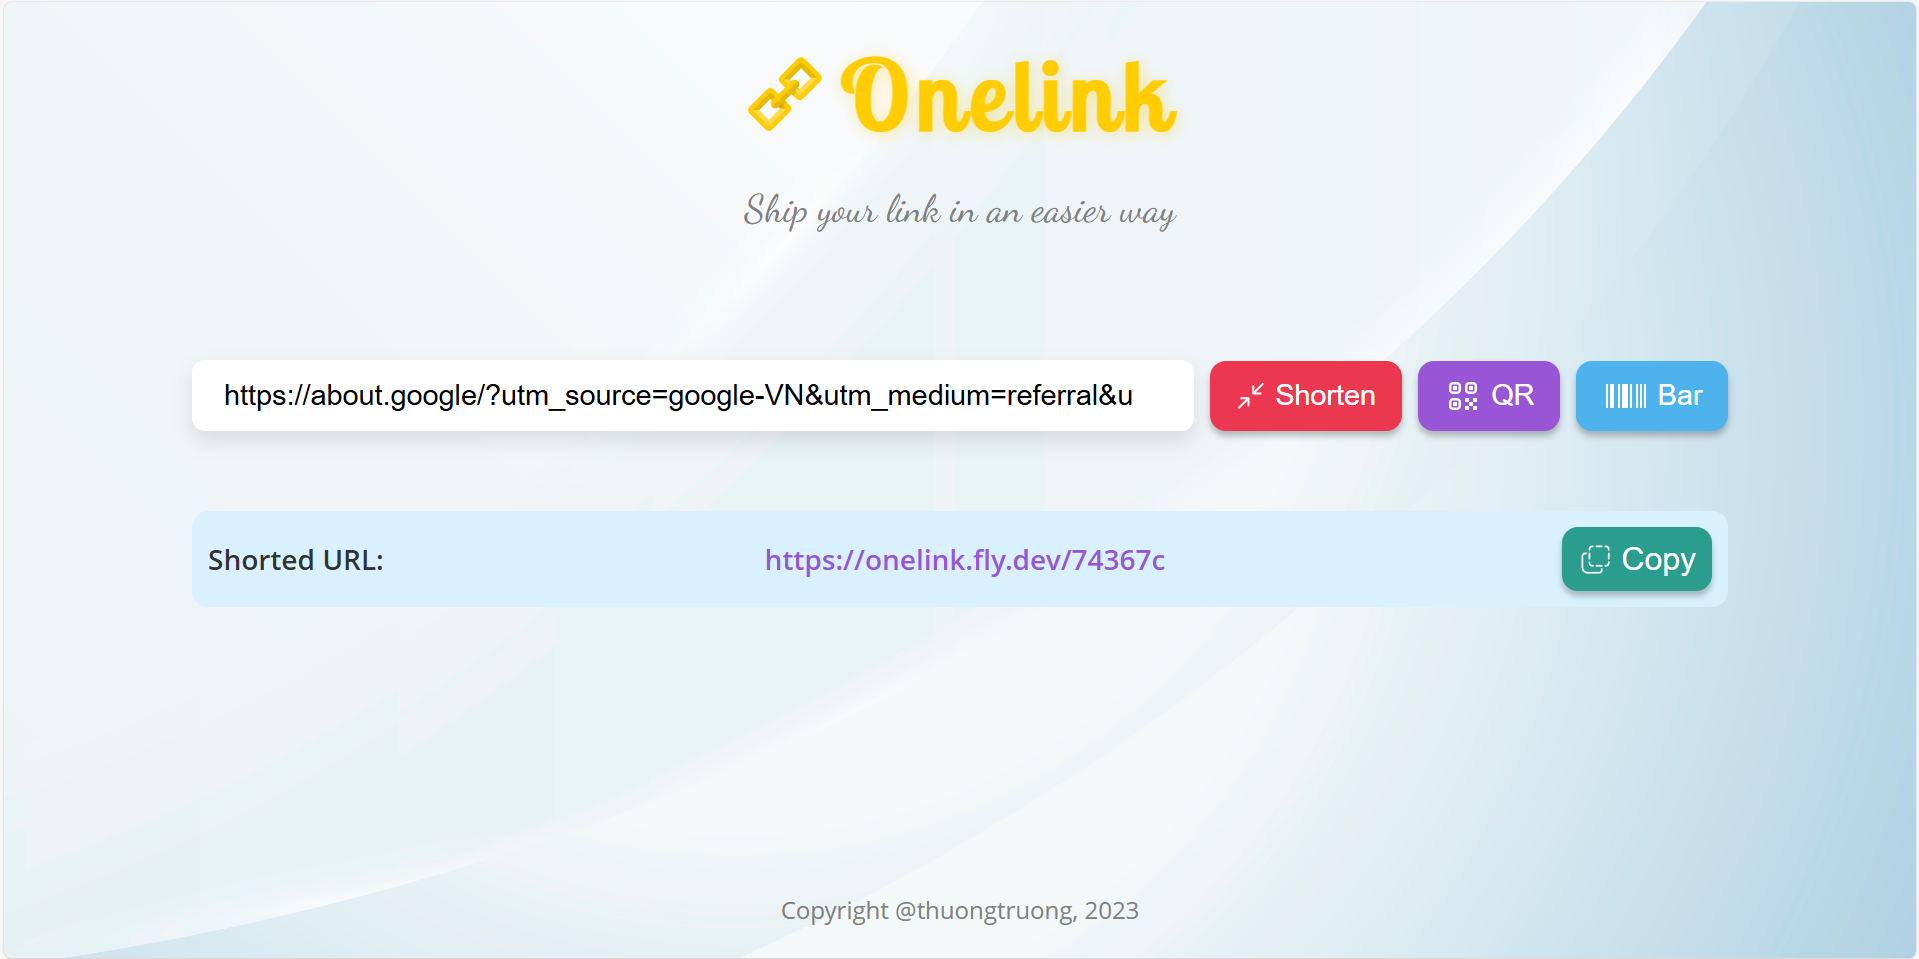
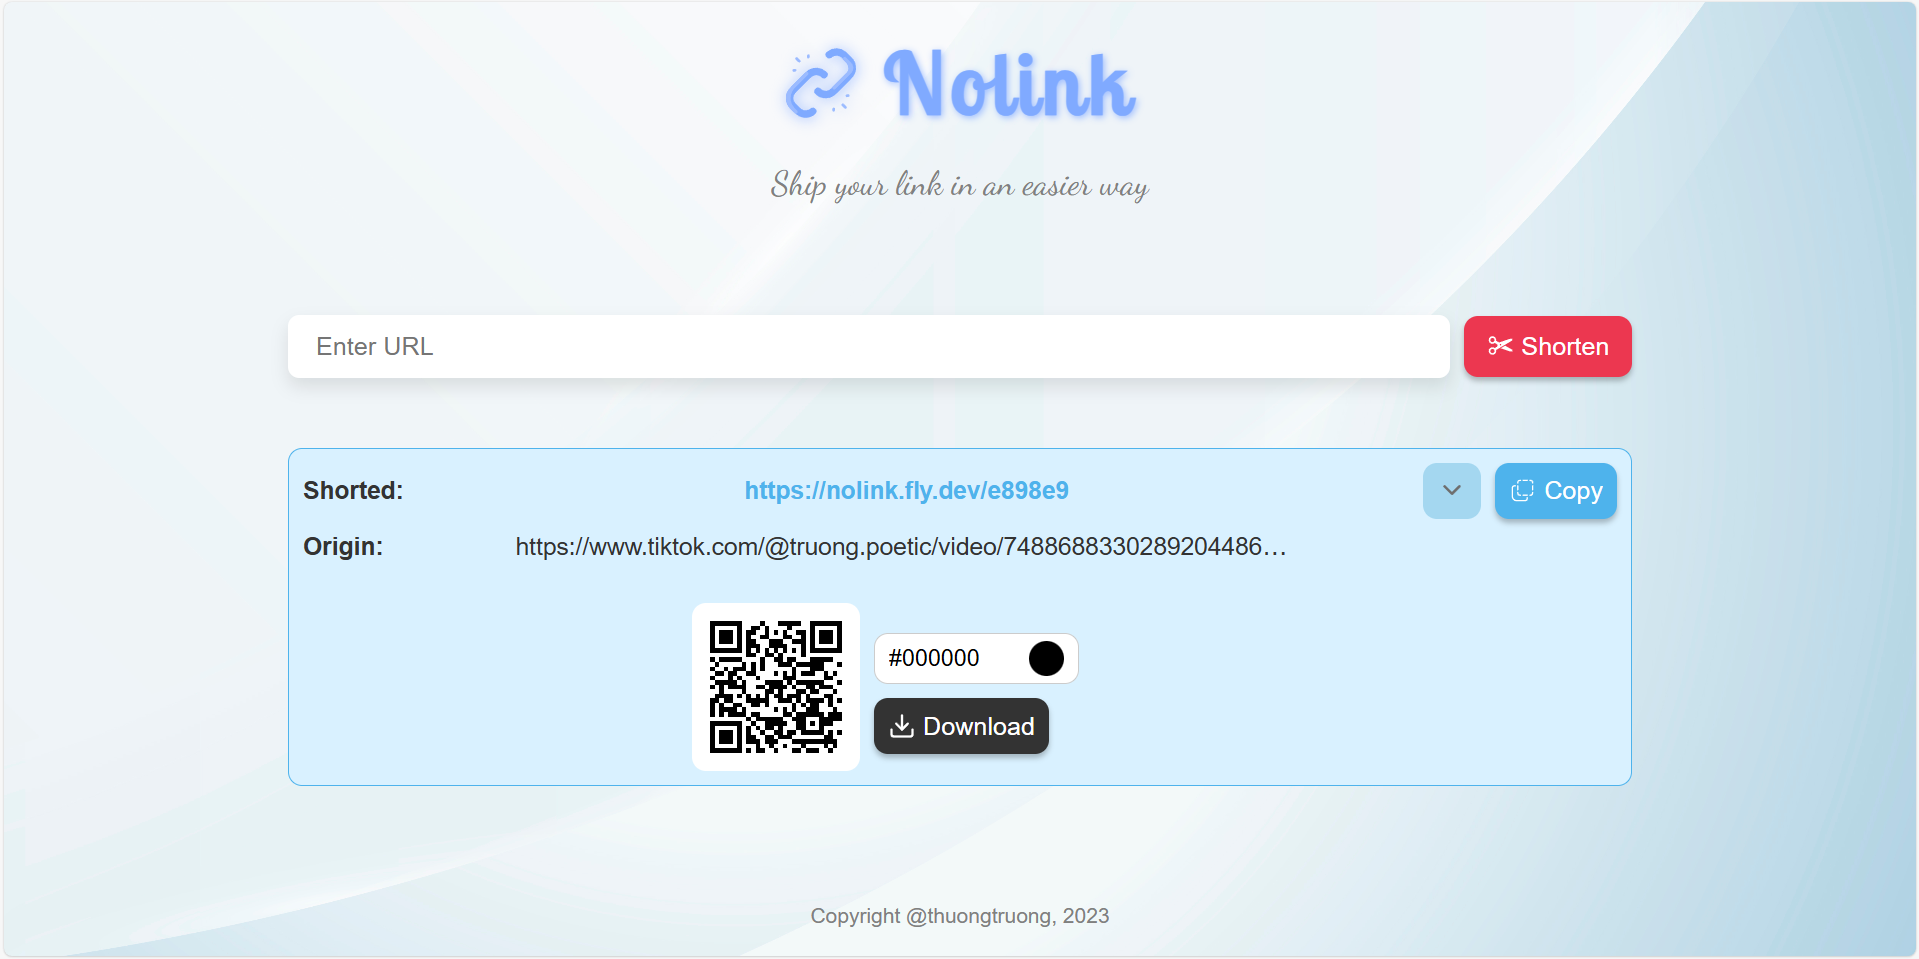
build: fix deploy connection

diff --git a/client/components/ShortedItem.vue b/client/components/ShortedItem.vue
@@ -3,19 +3,22 @@ import { computed, ref } from "vue";
 import Check from "./icons/Check.vue";
 import Copy from "./icons/Copy.vue";
 import Arrow from "./icons/Arrow.vue";
-import QRCode from "./QRCode.vue";
+import Code from "./Code.vue";
+import type { TShortedList } from "../types";
 
 const props = defineProps<{
-  url: string;
+  item: TShortedList;
   isActive: boolean;
 }>();
 
 // const config = useRuntimeConfig();
 // const currentUrl = ref<string>(
-//   computed(() => String(config.public.apiBase) + props.url) as unknown as string
+//   computed(() => String(config.public.apiBase) + props.short) as unknown as string
 // );
 
-const currentUrl = ref<string>(computed(() => props.url) as unknown as string);
+const currentUrl = ref<string>(
+  computed(() => props.item.short) as unknown as string
+);
 const isCopied = ref<boolean>(false);
 
 const onCopy = (text: string) => {
@@ -32,17 +35,17 @@ const isToggleMore = ref<boolean>(props.isActive);
 <template>
   <li :class="{ active: isToggleMore }">
     <h4>
-      <span>Shorted: {{ props.isActive }}</span>
+      <span>Shorted:</span>
       <span v-if="isToggleMore">Origin:</span>
     </h4>
     <div class="item-content">
       <div class="link">
-        <a :href="props.url" target="_blank">{{ props.url }}</a>
+        <a :href="props.item.short" target="_blank">{{ props.item.short }}</a>
         <a :href="currentUrl" target="_blank" v-if="isToggleMore">{{
-          currentUrl
+          props.item.origin
         }}</a>
       </div>
-      <div v-if="isToggleMore"><QRCode :text="url" /></div>
+      <div v-if="isToggleMore"><Code :text="props.item.short" /></div>
     </div>
     <div class="item-btn">
       <button
@@ -54,7 +57,7 @@ const isToggleMore = ref<boolean>(props.isActive);
         <Arrow />
       </button>
       <button
-        @click="onCopy(props.url)"
+        @click="onCopy(props.item.short)"
         class="copy-btn"
         :disabled="isCopied"
         type="button"
@@ -122,6 +125,7 @@ li {
     flex-direction: column;
     align-items: center;
     justify-content: center;
+    overflow: hidden;
 
     a {
       @include link($blue);
@@ -135,6 +139,14 @@ li {
       justify-content: center;
       width: 100%;
       text-align: center;
+      padding: 0 0.5rem;
+
+      a:nth-child(1) {
+        overflow: hidden;
+        text-overflow: ellipsis;
+        white-space: nowrap;
+        max-width: 100%;
+      }
 
       a:nth-child(2) {
         color: $black;
@@ -142,6 +154,7 @@ li {
         overflow: hidden;
         text-overflow: ellipsis;
         white-space: nowrap;
+        max-width: 80%;
       }
     }
   }

diff --git a/client/app.vue b/client/app.vue
@@ -6,6 +6,7 @@ import ShortedList from "./components/ShortedList.vue";
 import Cut from "./components/icons/Cut.vue";
 import { EBUTTON_OPTION } from "./enums/option";
 import { FetchMethod } from "./services";
+import type { TShortedList } from "./types";
 
 const config = useRuntimeConfig();
 
@@ -13,12 +14,14 @@ const url = ref<string>("");
 
 const toolOption = ref<string>(EBUTTON_OPTION.SHORTEN);
 
-const shortedUrl = ref<string[]>([]);
+const shortedList = ref<TShortedList[]>([]);
 
 const onClearInput = () => {
   url.value = "";
   toolOption.value = EBUTTON_OPTION.SHORTEN;
 };
+
+// https://nuxt.com/docs/api/composables/use-cookie#usecookie
 
 // onMounted(() => {
 //   getAllShorted();
@@ -39,7 +42,7 @@ const onClearInput = () => {
 //     }
 //   );
 
-//   shortedUrl.value = allData;
+//   shortedList.value = allData;
 // };
 
 const onShorten = async () => {
@@ -51,7 +54,13 @@ const onShorten = async () => {
     body: JSON.stringify({ url: url.value }),
   });
 
-  shortedUrl.value.unshift(shortenData.short);
+  shortedList.value.unshift({
+    short: shortenData.short,
+    origin: url.value,
+    createdAt: new Date().toLocaleString("en-US", {
+      timeZone: "UTC",
+    }),
+  });
   onClearInput();
 };
 </script>
@@ -83,7 +92,7 @@ const onShorten = async () => {
         </button>
       </div>
 
-      <ShortedList :shortedUrl="shortedUrl" />
+      <ShortedList :shortedList="shortedList" />
     </section>
 
     <Footer />

diff --git a/client/components/Code.vue b/client/components/Code.vue
@@ -3,7 +3,6 @@ import { ref, reactive, watch, onMounted } from "vue";
 import { saveAs } from "file-saver";
 import { toString } from "qrcode";
 import Download from "./icons/Download.vue";
-import JsBarcode from "jsbarcode";
 
 const props = defineProps<{
   text: string;
@@ -51,18 +50,6 @@ const generateBarcode = () => {
   if (!props.text) {
     return;
   }
-  JsBarcode("#barcode", "1234", {
-    lineColor: "#0aa",
-    height: 40,
-    displayValue: false,
-  });
-  // const canvas = document.createElement("canvas");
-  // JsBarcode(canvas, props.text, {
-  //   lineColor: "#0aa",
-  //   height: 40,
-  //   displayValue: false,
-  // });
-  // return canvas.toDataURL("image/png");
 };
 
 onMounted(() => {
@@ -87,10 +74,6 @@ onMounted(() => {
         <span>Download</span>
       </button>
     </div>
-
-    <div>
-      <img id="barcode" />
-    </div>
   </div>
 </template>
 
@@ -100,7 +83,6 @@ onMounted(() => {
   justify-content: center;
   align-items: center;
   width: 100%;
-  flex-wrap: wrap;
   padding-top: 1rem;
 
   .left_response {
@@ -152,11 +134,6 @@ onMounted(() => {
       @include button($black);
       width: fit-content;
     }
-  }
-
-  img {
-    border-radius: 0.5rem;
-    width: 10rem;
   }
 }
 </style>

diff --git a/client/nuxt.config.ts b/client/nuxt.config.ts
@@ -1,11 +1,10 @@
-import path from "path";
 import pkg from "./package.json";
 
 export default defineNuxtConfig({
   app: {
     head: {
       htmlAttrs: { lang: "en", dir: "ltr" },
-      title: pkg.name.toUpperCase(),
+      title: pkg.name,
       meta: [
         { charset: "utf-8" },
         { name: "viewport", content: "width=device-width, initial-scale=1" },
@@ -14,6 +13,8 @@ export default defineNuxtConfig({
           name: "description",
           content: pkg.description,
         },
+        { name: "author", content: pkg.author },
+        { name: "keywords", content: pkg.keywords.join(", ") },
         { name: "format-detection", content: "telephone=no" },
       ],
       script: [

diff --git a/client/components/ShortedList.vue b/client/components/ShortedList.vue
@@ -1,16 +1,17 @@
 <script setup lang="ts">
 import ShortedItem from "./ShortedItem.vue";
+import type { TShortedList } from "../types";
 
 defineProps<{
-  shortedUrl: string[];
+  shortedList: TShortedList[];
 }>();
 </script>
 
 <template>
   <ul>
     <ShortedItem
-      :url="url"
-      v-for="(url, i) in shortedUrl"
+      :item="item"
+      v-for="(item, i) in shortedList"
       :key="i"
       :isActive="i === 0"
     />

diff --git a/client/enums/option.ts b/client/enums/option.ts
@@ -1,5 +1,4 @@
 export enum EBUTTON_OPTION {
-  BARCODE = "Barcode",
   QRCODE = "QR Code",
   SHORTEN = "Shorten",
 }

diff --git a/client/types.ts b/client/types.ts
@@ -1,0 +1,5 @@
+export type TShortedList = {
+  short: string;
+  origin: string;
+  createdAt: string;
+};

diff --git a/api/main.go b/api/main.go
@@ -28,7 +28,7 @@ func main() {
 	}))
 
 	app.Use(cors.New(cors.Config{
-		AllowOrigins: os.Getenv("ORIGIN"), // *
+		AllowOrigins: "*",
 		AllowMethods: strings.Join([]string{
 			fiber.MethodGet,
 			fiber.MethodPost,
